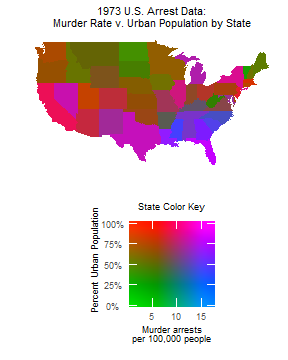
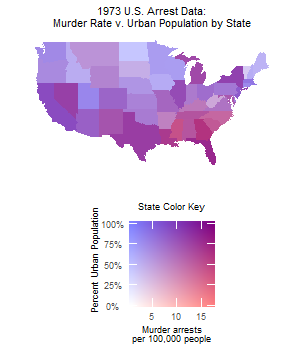
added interpolate_projection to create custom palettes, revamped red_blue_projection to use this system

Changed region(s): [[0.125, 0.0917, 0.9375, 0.4583], [0.4375, 0.6111, 0.75, 0.8556]]

diff --git a/readme.md b/readme.md
@@ -38,17 +38,18 @@ To install:
 
 
 ```r
-devtools::install_github("wmurphyrd/colorplaner", ref = "other_projections")
+devtools::install_github("wmurphyrd/colorplaner")
 ```
-
-#### Development branch: other_projections
-* Support for providing alternate color space projections through the `color_projection` argument to `scale_fill_colorplane` and `scale_color_colorplane`
-* Sample alternate projection `red_blue_projection`
-* Documentation for creating alternate projections added at `?color_projections`
 
 #### Known Issues and Incomplete Features
 * Cannot alter title and axis label positions in guide_colorplane (#2)
 * Colors render incorrectly when discrete variables assigned to color/colour/fill (#1) 
+
+#### Version 0.0.0.9003
+* NEW: color projection customization options in `scale_color_colorplane` and `scale_fill_colorplane`! (#3)
+    * Can specify a `Y` value for default `YUV` projection to set the luminosity
+    * Can specify `color_projection = "red_blue"` for a red, blue, and purple scale
+    * Can create any arbitrary scale with `interpolate_projection`
 
 #### Version 0.0.0.9002
 * Removed dependency on `pkg:colorscience` (and all of its imports and depends); replaced with super fast matrix-math YUV-RGB conversions (#4)
@@ -96,7 +97,8 @@ Like ggplot2, colorplaner works with sensible defaults but allows ample tweaking
 2. Override the above plot theme setting in the guide to retain its scales (`label.theme`, `label_y.theme`)
 4. Improve the guide titles (`axis_title`, `axis_title_y`, `title`)
 3. Improve the guide vertical axis labels (`fill2`, `labels_y`)
-4. Force the percentage based scale to range from 0% to 100% (`limits_y`, notice how this alters the colors of the states compared to the above map). 
+4. Force the percentage based scale to range from 0% to 100% (`limits_y`). 
+5. Change to a different color space projection (`color_projection`, see `?color_projections` for more)
 
 View `?scale_color_colorplane` and `?guide_colorplane` for all available options. 
 
@@ -112,7 +114,7 @@ if(require(mapproj)) {
                           axis_title = "Murder arrests\nper 100,000 people",
                           axis_title_y = "Percent Urban Population",
                           limits_y = c(0,1),
-                          color_projection = red_blue_projection) +
+                          color_projection = "red_blue") +
     expand_limits(x = states_map$long, y = states_map$lat) +
     coord_map() +
     theme(legend.position = "bottom",

diff --git a/NEWS.md b/NEWS.md
@@ -1,11 +1,12 @@
-# Development branch: other_projections
-* Support for providing alternate color space projections through the `color_projection` argument to `scale_fill_colorplane` and `scale_color_colorplane`
-* Sample alternate projection `red_blue_projection`
-* Documentation for creating alternate projections added at `?color_projections`
-
 # Known Issues and Incomplete Features
 * Cannot alter title and axis label positions in guide_colorplane (#2)
 * Colors render incorrectly when discrete variables assigned to color/colour/fill (#1) 
+
+# Version 0.0.0.9003
+* NEW: color projection customization options in `scale_color_colorplane` and `scale_fill_colorplane`! (#3)
+    * Can specify a `Y` value for default `YUV` projection to set the luminosity
+    * Can specify `color_projection = "red_blue"` for a red, blue, and purple scale
+    * Can create any arbitrary scale with `interpolate_projection`
 
 # Version 0.0.0.9002
 * Removed dependency on `pkg:colorscience` (and all of its imports and depends); replaced with super fast matrix-math YUV-RGB conversions (#4)
